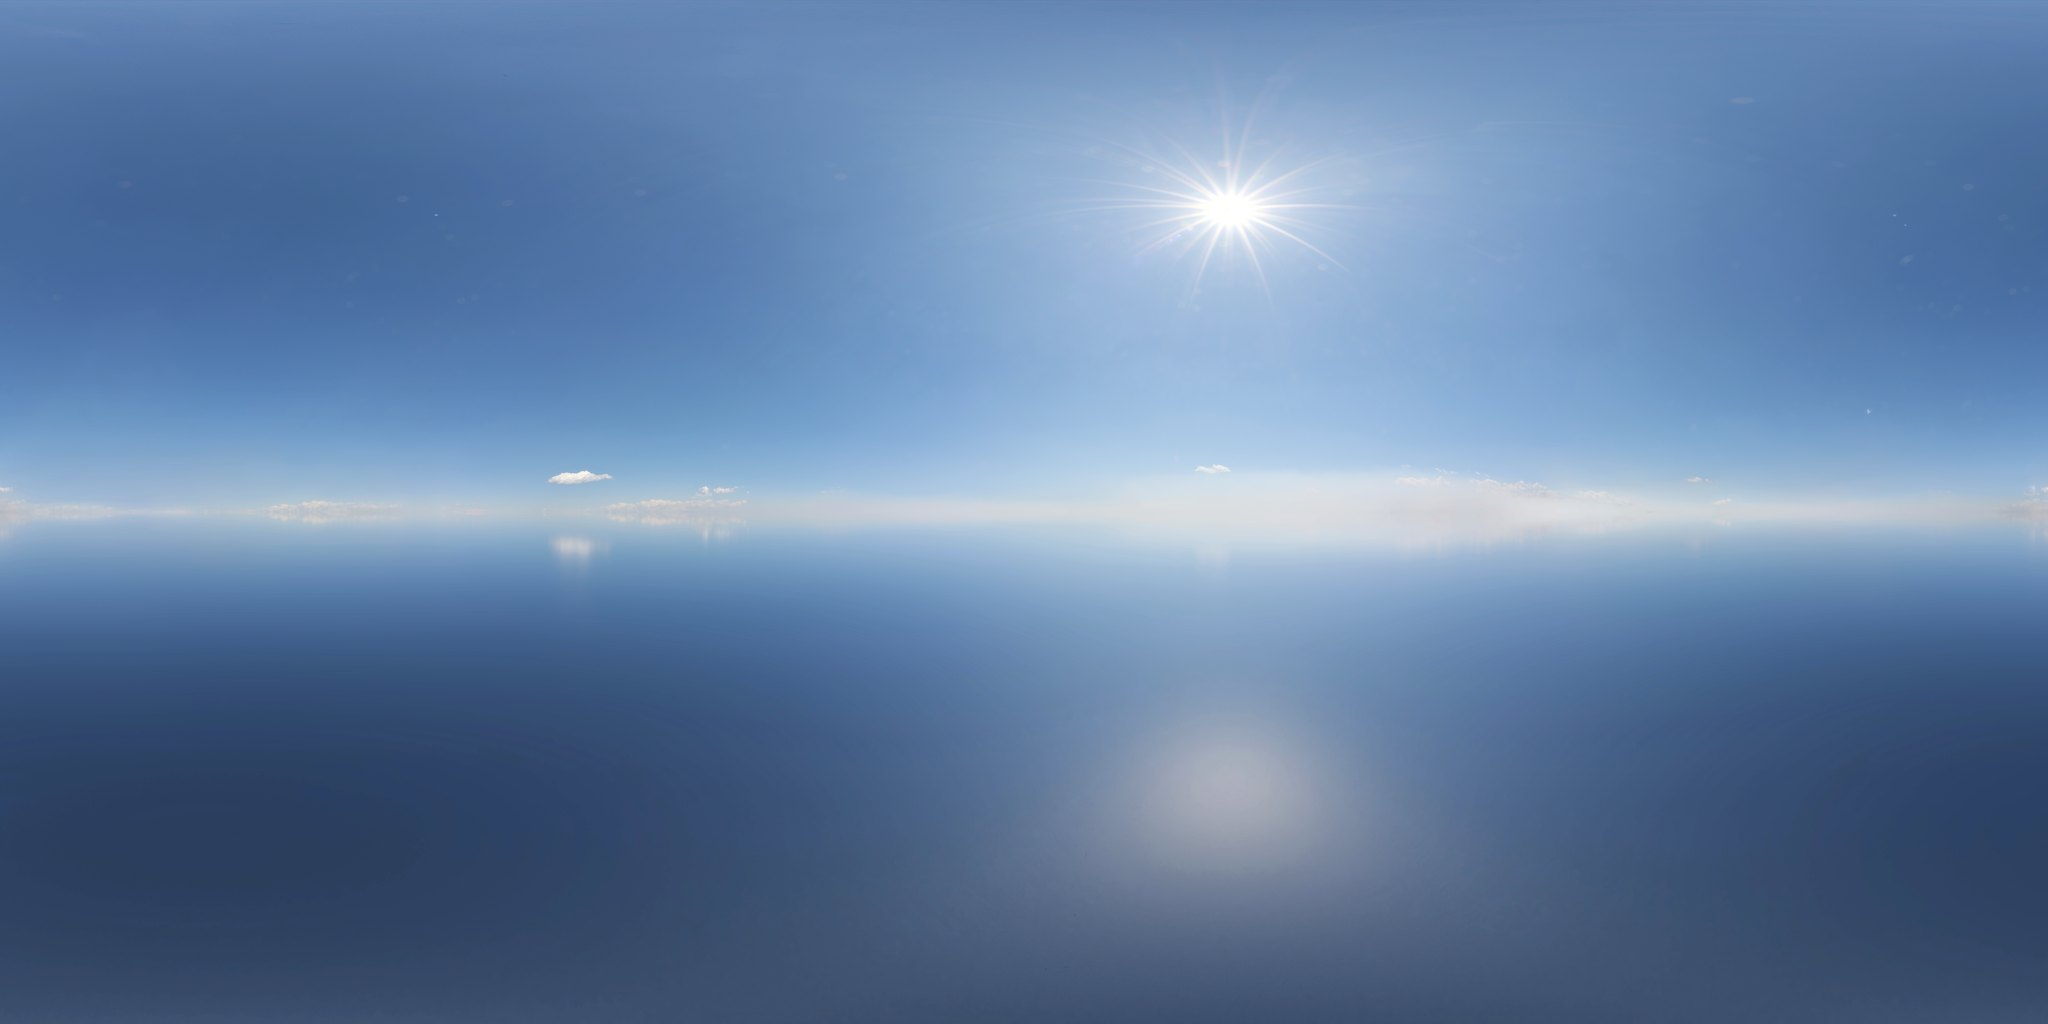
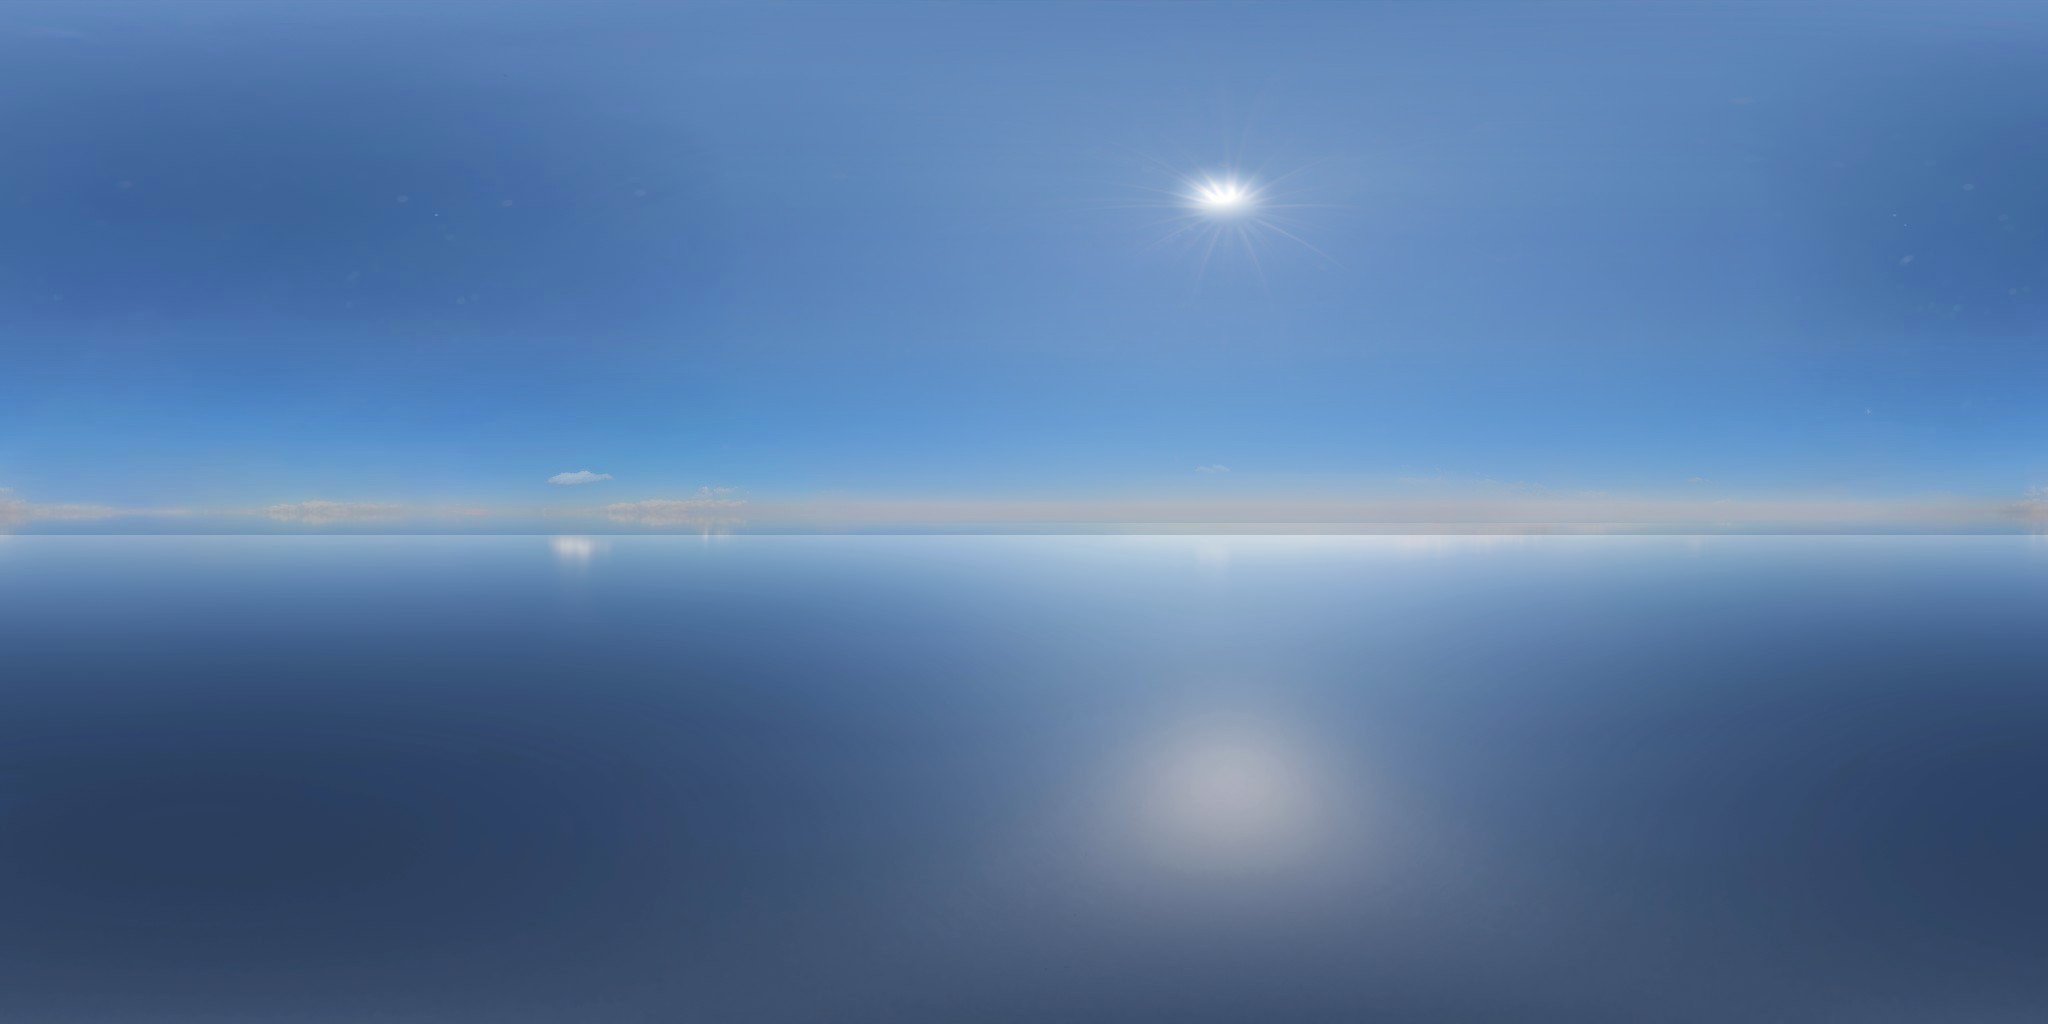
Lambo Blast lambo7c: de-haloed sky panoramas, lower Canyon/Snowy grade exposure, bluer/thinner snow + canyon + jungle fog (tracks 1 and 3 still read washed on 7b)

Changed region(s): [[0.0, 0.0625, 1.0, 0.5312]]

diff --git a/unity/lambo-blast/Assets/Scripts/Core/Look.cs b/unity/lambo-blast/Assets/Scripts/Core/Look.cs
@@ -82,7 +82,7 @@ public static class Look
     static Texture skyBase;
     public static int Theme;
     // sky exposure / rotation per theme (sun azimuth of each panorama vs the theme's sun light)
-    static readonly float[] SkyExp = { 1f, 0.8f, 0.85f, 0.78f, 0.85f, 0.82f };   // lambo7b: the new panoramas read washed-out at 1.0 under the filmic grade
+    static readonly float[] SkyExp = { 1f, 0.8f, 0.85f, 0.78f, 0.85f, 0.82f };   // lambo7c: sky jpgs also de-haloed (lbgfx2/sky7b/dehalo.py); lambo7b: the new panoramas read washed-out at 1.0 under the filmic grade
     // lambo7b: +180 on the new skies - with the sky sun matched to the sun light the start straights looked straight into a
     // white sun glow (probe A-T1 / A-T3); the panorama sun now sits behind the grid, the sky in view stays blue
     static readonly float[] SkyRot = { 18f, 174f, 256f, 214f, 211f, 124f };   // R = sunAz - (u_sun - 0.25) * 360 (measured, lb-gfx/make_theme_tex.py)
@@ -100,10 +100,10 @@ public static class Look
         float sunI = 1.1f, fogD = 0.0022f, exp = 1f; Vector3 sunE = new Vector3(48f, -38f, 0f);
         switch (th)
         {
-            case 1: sunC = new Color(1f, 0.87f, 0.68f); sunI = 1.15f; sunE = new Vector3(40f, -60f, 0f); sky = new Color(0.5f, 0.48f, 0.52f); eq = new Color(0.58f, 0.46f, 0.36f); gr = new Color(0.5f, 0.32f, 0.22f); fog = new Color(0.86f, 0.72f, 0.58f); fogD = 0.0016f; tint = new Color(0.56f, 0.5f, 0.44f); break;
+            case 1: sunC = new Color(1f, 0.87f, 0.68f); sunI = 1.15f; sunE = new Vector3(40f, -60f, 0f); sky = new Color(0.5f, 0.48f, 0.52f); eq = new Color(0.58f, 0.46f, 0.36f); gr = new Color(0.5f, 0.32f, 0.22f); fog = new Color(0.8f, 0.64f, 0.5f); fogD = 0.0013f; tint = new Color(0.56f, 0.5f, 0.44f); break;
             case 2: sunC = new Color(1f, 0.68f, 0.48f); sunI = 1.2f; sunE = new Vector3(34f, 30f, 0f); sky = new Color(0.46f, 0.36f, 0.36f); eq = new Color(0.52f, 0.36f, 0.28f); gr = new Color(0.6f, 0.28f, 0.1f); fog = new Color(0.42f, 0.28f, 0.22f); fogD = 0.0022f; tint = new Color(0.44f, 0.3f, 0.26f); exp = 0.9f; break;
-            case 3: sunC = new Color(0.96f, 0.97f, 1f); sunI = 1.1f; sunE = new Vector3(36f, -20f, 0f); sky = new Color(0.46f, 0.54f, 0.68f); eq = new Color(0.52f, 0.56f, 0.62f); gr = new Color(0.5f, 0.52f, 0.58f); fog = new Color(0.8f, 0.85f, 0.92f); fogD = 0.0024f; tint = new Color(0.5f, 0.53f, 0.58f); exp = 1.1f; break;
-            case 4: sunC = new Color(1f, 0.95f, 0.8f); sunI = 1.05f; sunE = new Vector3(55f, -70f, 0f); sky = new Color(0.4f, 0.5f, 0.52f); eq = new Color(0.4f, 0.48f, 0.36f); gr = new Color(0.26f, 0.32f, 0.2f); fog = new Color(0.55f, 0.66f, 0.56f); fogD = 0.0032f; tint = new Color(0.46f, 0.52f, 0.46f); break;
+            case 3: sunC = new Color(0.96f, 0.97f, 1f); sunI = 1.1f; sunE = new Vector3(36f, -20f, 0f); sky = new Color(0.46f, 0.54f, 0.68f); eq = new Color(0.52f, 0.56f, 0.62f); gr = new Color(0.5f, 0.52f, 0.58f); fog = new Color(0.68f, 0.77f, 0.9f); fogD = 0.0016f; tint = new Color(0.5f, 0.53f, 0.58f); exp = 1.1f; break;
+            case 4: sunC = new Color(1f, 0.95f, 0.8f); sunI = 1.05f; sunE = new Vector3(55f, -70f, 0f); sky = new Color(0.4f, 0.5f, 0.52f); eq = new Color(0.4f, 0.48f, 0.36f); gr = new Color(0.26f, 0.32f, 0.2f); fog = new Color(0.5f, 0.62f, 0.54f); fogD = 0.0025f; tint = new Color(0.46f, 0.52f, 0.46f); break;
             case 5: sunC = new Color(1f, 0.9f, 0.8f); sunI = 1.1f; sunE = new Vector3(32f, -110f, 0f); sky = new Color(0.44f, 0.5f, 0.64f); eq = new Color(0.5f, 0.5f, 0.52f); gr = new Color(0.35f, 0.35f, 0.38f); fog = new Color(0.72f, 0.78f, 0.88f); fogD = 0.0011f; tint = new Color(0.5f, 0.52f, 0.56f); exp = 1.05f; break;
         }
         if (sun != null) { sun.color = sunC; sun.intensity = sunI; sun.transform.rotation = Quaternion.Euler(sunE); }

diff --git a/unity/lambo-blast/Assets/Scripts/Core/LBPost.cs b/unity/lambo-blast/Assets/Scripts/Core/LBPost.cs
@@ -20,9 +20,9 @@ public class LBPost : MonoBehaviour
     // per theme: saturation, contrast, warmth, filmic exposure, bloom
     static readonly float[,] Theme = {
         { 1.18f, 1.14f, 0.03f, 1.02f, 0.26f },   // 0 Coconut Cove
-        { 1.16f, 1.17f, 0.05f, 0.98f, 0.22f },   // 1 Canyon Leap
+        { 1.16f, 1.17f, 0.05f, 0.92f, 0.2f },    // 1 Canyon Leap (7c: lower exposure)
         { 1.16f, 1.18f, 0.06f, 0.98f, 0.34f },   // 2 Volcano Rim (lava glow blooms more)
-        { 1.10f, 1.16f, -0.035f, 0.94f, 0.2f },  // 3 Snowy Summit (snow + sky clip fast: lower exposure, more contrast)
+        { 1.12f, 1.18f, -0.035f, 0.85f, 0.16f }, // 3 Snowy Summit (snow + sky clip fast: lower exposure, more contrast; 7c lower again)
         { 1.16f, 1.14f, 0.0f, 1.0f, 0.22f },     // 4 Jungle Ruins
         { 1.14f, 1.16f, -0.01f, 0.98f, 0.28f },  // 5 Sky City
     };
